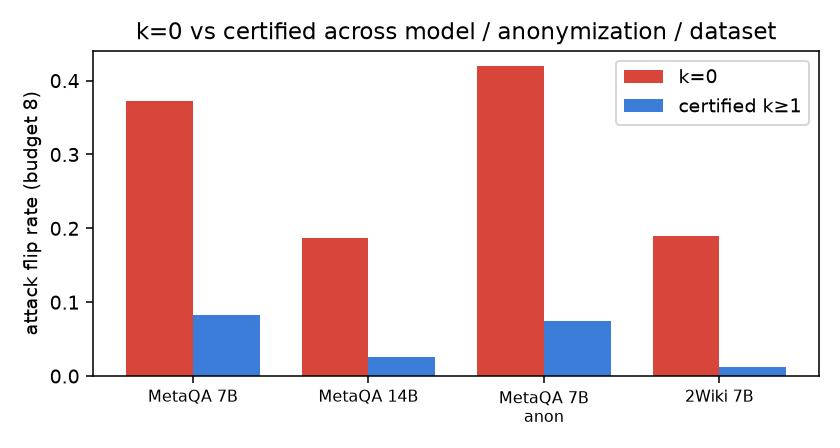
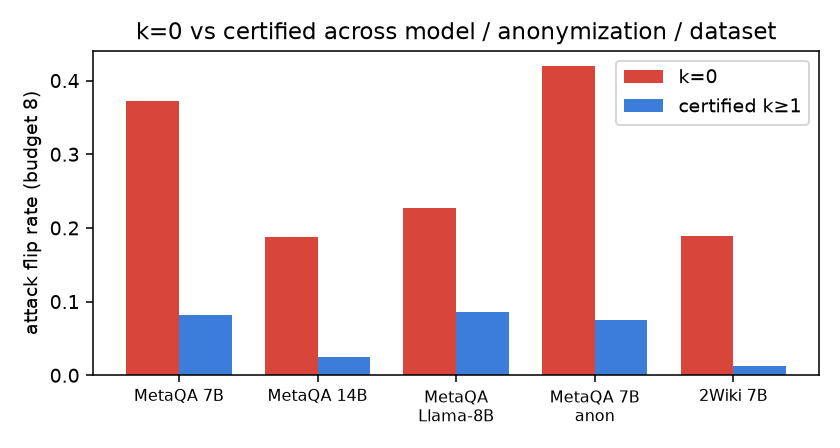
Llama-3.1-8B: third reasoner confirms P7 gradient (cross-model)
HF token + license unblocked (check_prereqs 15/16). budget 8, k=0 vs
certified flip: Qwen2.5-7B 0.37/0.08, Qwen2.5-14B 0.19/0.03,
Llama-3.1-8B 0.23/0.09 — the certificate effect holds across all three
reasoners. stage1_gate.md cross-condition table + cross_condition.png +
RESULTS finding 3 updated.

diff --git a/scripts/make_figures.py b/scripts/make_figures.py
@@ -95,6 +95,7 @@ def fig_cross_condition():
     conds = [
         ("MetaQA 7B", "p7/metaqa2_dev_b8"),
         ("MetaQA 14B", "p7/metaqa2_dev_14b_b8"),
+        ("MetaQA\nLlama-8B", "p7/metaqa2_dev_llama_b8"),
         ("MetaQA 7B\nanon", "p7/metaqa2_dev_anon_b8"),
         ("2Wiki 7B", "p7/2wiki_dev_b8"),
     ]

diff --git a/results/stage1_gate.md b/results/stage1_gate.md
@@ -16,12 +16,34 @@ removes parametric memory) — evidence the effect is graph-structural.
 
 | condition | budget | n | k=0 flip | k>=1 flip | gap (x) |
 |---|---:|---:|---:|---:|---:|
+| Llama-3.1-8B | 2 | 613 | 0.18 | 0.03 | 6.1x |
+| Llama-3.1-8B | 8 | 613 | 0.23 | 0.09 | 2.7x |
 | Qwen2.5-14B | 2 | 613 | 0.00 | 0.01 | n/a |
 | Qwen2.5-14B | 8 | 613 | 0.19 | 0.03 | 7.5x |
 | Qwen2.5-7B | 2 | 613 | 0.12 | 0.03 | 4.0x |
 | Qwen2.5-7B | 8 | 613 | 0.37 | 0.08 | 4.5x |
 | Qwen2.5-7B, anonymized | 2 | 613 | 0.13 | 0.02 | 6.6x |
 | Qwen2.5-7B, anonymized | 8 | 613 | 0.42 | 0.07 | 5.6x |
+
+## Llama-3.1-8B, attack budget 2 (n=613)
+
+| k bin | n | clean acc | flip rate |
+|---|---:|---:|---:|
+| 0 | 60 | 0.73 | 0.18 |
+| 1-2 | 120 | 0.62 | 0.04 |
+| 3-5 | 180 | 0.55 | 0.03 |
+| 6-10 | 185 | 0.62 | 0.03 |
+| 11+ | 68 | 0.72 | 0.02 |
+
+## Llama-3.1-8B, attack budget 8 (n=613)
+
+| k bin | n | clean acc | flip rate |
+|---|---:|---:|---:|
+| 0 | 60 | 0.73 | 0.23 |
+| 1-2 | 120 | 0.58 | 0.11 |
+| 3-5 | 180 | 0.54 | 0.10 |
+| 6-10 | 185 | 0.66 | 0.07 |
+| 11+ | 68 | 0.75 | 0.04 |
 
 ## Qwen2.5-14B, attack budget 2 (n=613)
 

diff --git a/PROGRESS.md b/PROGRESS.md
@@ -243,3 +243,14 @@ Format per entry: date, phase, what was attempted, result, next.
 - results/FINAL/RESULTS.md updated to finding 10.
 - Remaining: MuSiQue text-KG; text-KG reasoning/attack experiments; P3
   baselines; full-scale matrix; gated WebQSP/CWQ + Llama.
+
+## 2026-07-11 — Llama-3.1-8B unblocked (HF token + license from Marko)
+
+- check_prereqs now 15/16 (only Freebase left). Downloaded Llama-3.1-8B
+  (15G); verified it loads+generates on GH200 (Alice/Greek).
+- **Third reasoner in the P7 cross-model table** (stage1_gate.md, budget 8,
+  k=0 vs certified): Qwen2.5-7B 0.37/0.08, Qwen2.5-14B 0.19/0.03,
+  Llama-3.1-8B 0.23/0.09. Gradient holds on all three (Llama is a weaker
+  reasoner — lower clean acc — but k=0 still flips most). make_figures.py
+  cross_condition adds Llama; RESULTS finding 3 updated.
+- Next unblocked: Llama across P8/P10; still gated: Freebase (WebQSP/CWQ).

diff --git a/results/FINAL/RESULTS.md b/results/FINAL/RESULTS.md
@@ -23,11 +23,12 @@ adds role-aware hub pruning. Figures: `results/FINAL/figures/` via
    MetaQA 2-hop, budget 8: k=0 flip 0.37 vs certified 0.09. → `stage1_gate.md`;
    `scripts/run_p7_gate.py`.
 
-3. **The effect is graph-structural, not memorization.** Holds cross-model
-   (14B: 0.19 vs 0.03) and under entity anonymization (0.42 vs 0.07, steeper;
-   clean acc drops most at k=0). → `stage1_gate.md` "Robustness of the effect",
-   fig `cross_condition.png`; `run_p7_gate.py --anonymize`,
-   `--model Qwen2.5-14B-Instruct`.
+3. **The effect is graph-structural, not memorization.** Holds across three
+   reasoners (budget 8 k=0 vs certified: Qwen2.5-7B 0.37/0.08, 14B 0.19/0.03,
+   Llama-3.1-8B 0.23/0.09) and under entity anonymization (0.42 vs 0.07,
+   steeper; clean acc drops most at k=0). → `stage1_gate.md` "Robustness of
+   the effect", fig `cross_condition.png`; `run_p7_gate.py --anonymize`,
+   `--model {Qwen2.5-14B-Instruct,Llama-3.1-8B-Instruct}`.
 
 4. **Stable across seeds.** 3 seeds, budget 8: k=0 flip 0.324 ± 0.034 vs
    certified 0.088 ± 0.007. → `stage1_gate.md` "Multi-seed";